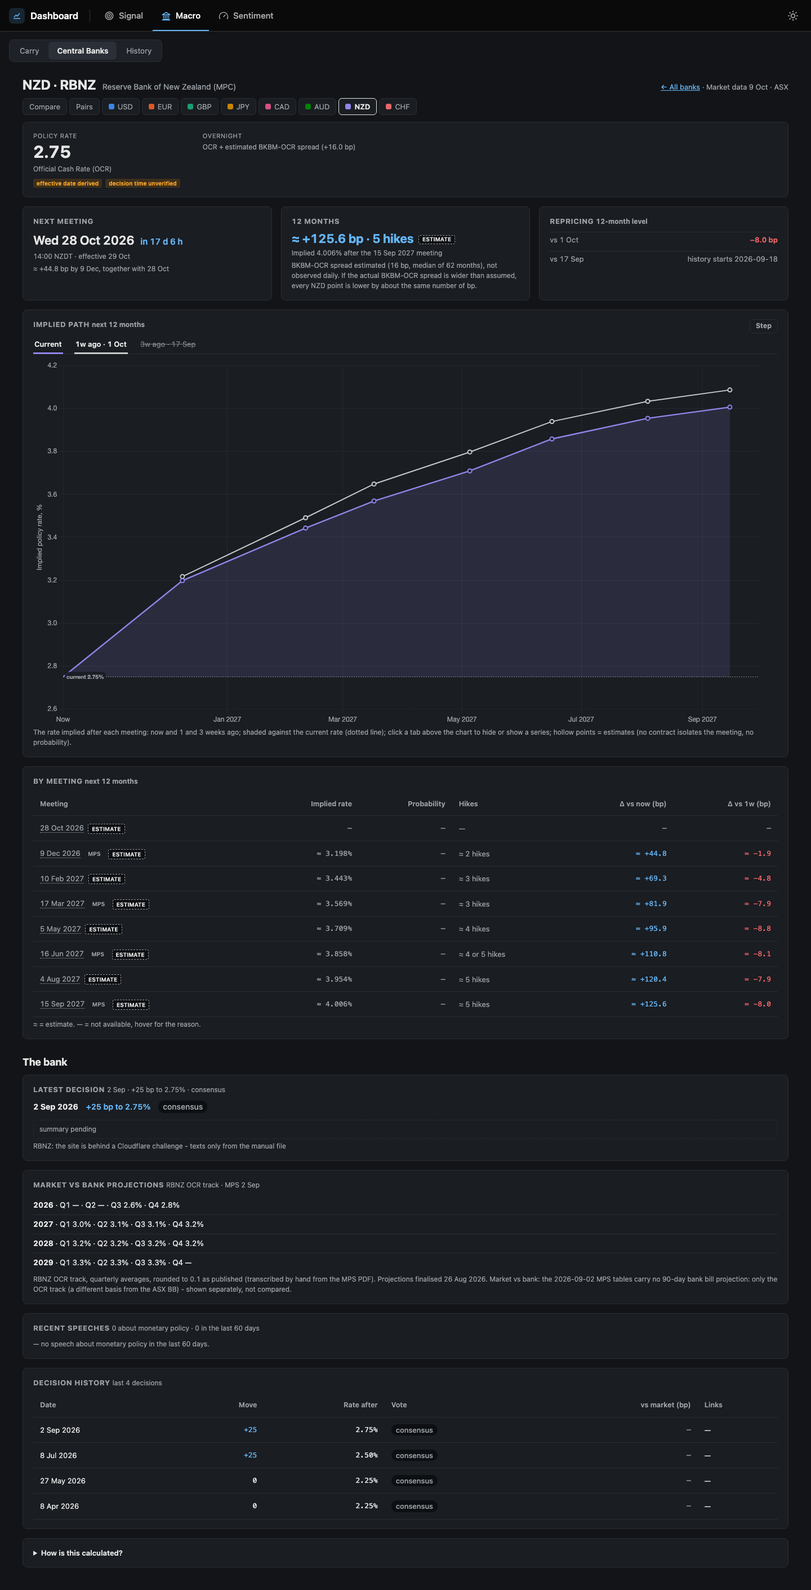
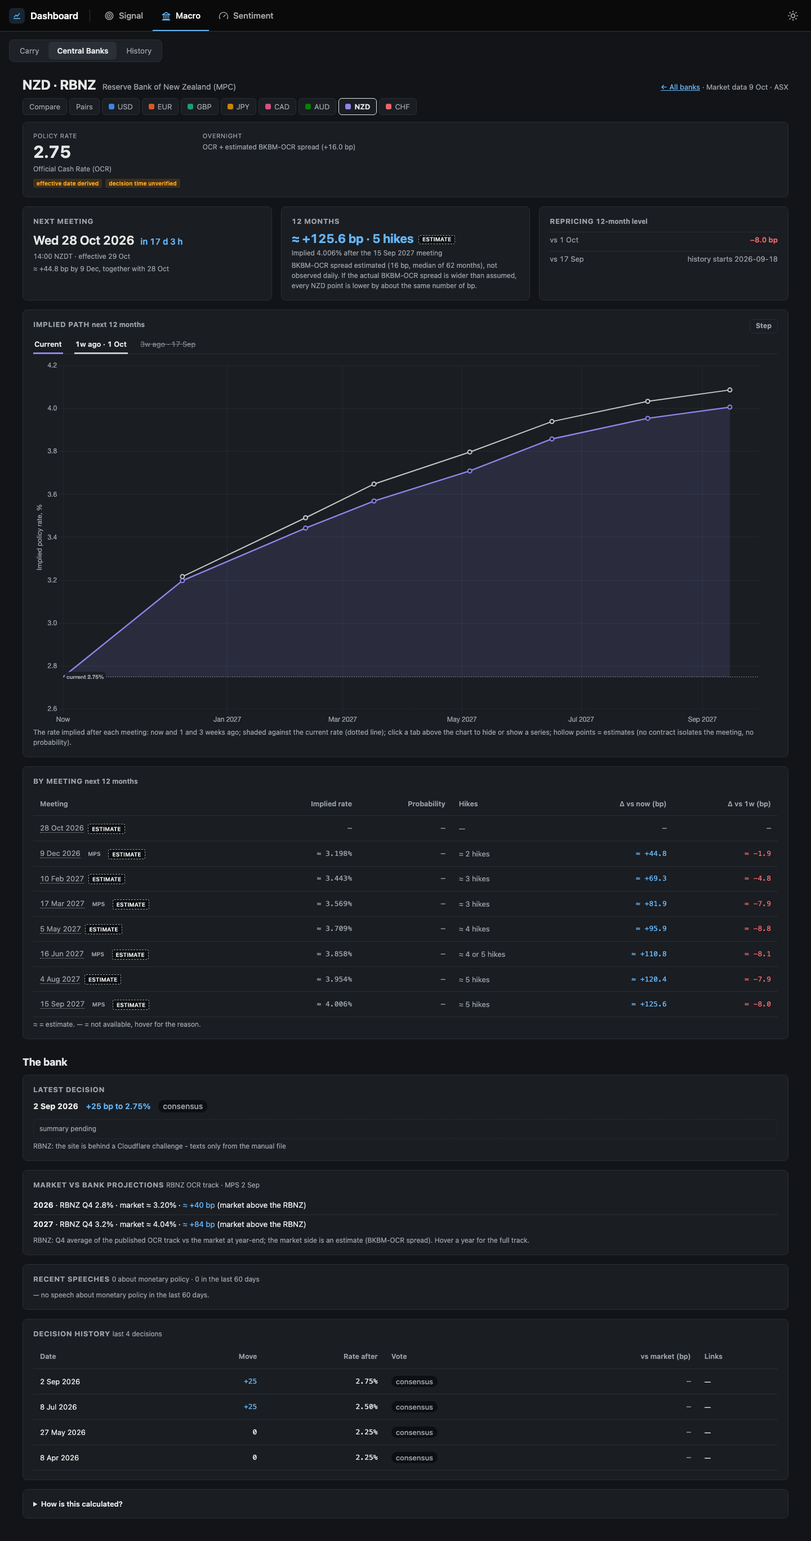
cb: bank page v3 fixes - Latest decision title, unpublished votes, RBNZ OCR track vs the market
- desktop: the Latest decision card has its title only (the phone accordion keeps the subtitle)
- votes not published (ECB): no chip in Latest decision, no Vote column when no row has a published vote; consensus (RBNZ) stays
- RBNZ projections like the Fed: per year with both values, Q4 of the published OCR track vs the policy-equivalent rate after the last
  meeting of the year (year_end, an estimate for NZD); payload chart.bank.vs_market (pure, tested); the full track in the tooltip
- tests updated; screenshots usd / eur / nzd retaken; ARCHITECTURE §22

diff --git a/public/cb.js b/public/cb.js
@@ -1064,20 +1064,21 @@
     else if (conf) Object.keys(conf).forEach(function (k) { if (conf[k] && conf[k].url) out.push(docAnchor(conf[k], PRESSER_LABEL[k] || "Press conference")); });
     return out;
   }
+  function votesPublished(v) { return !!v && v.kind !== "not_published"; }        // "consensus" (RBNZ) is shown; "not published" (ECB) is not
   function latestDecisionBlock(d) {
     const doc = d.documents, L = doc && doc.latest;
     if (!L) return null;
     const st = L.statement, dec = d.decisions.find(function (x) { return x.date === L.meeting; });
     const links = decisionLinks(st, L.follow_up, dec && dec.slots && dec.slots.conference);
     const row = '<div class="cb-ld-row"><b>' + fmtDate(L.meeting) + "</b>" + (dec ? '<span class="cb-ld-move' + tone(dec.delta_bp) + '">' + esc(moveText2(dec)) + "</span>" : "") +
-      voteChip(L.votes) + (links.length ? '<span class="cb-ld-links">' + links.join(DOT) + "</span>" : "") + "</div>";
+      (votesPublished(L.votes) ? voteChip(L.votes) : "") + (links.length ? '<span class="cb-ld-links">' + links.join(DOT) + "</span>" : "") + "</div>";
     const changes = st && L.redline ? '<details class="cb-x"><summary>Changes vs ' + fmtDate(L.redline.prev_meeting) + ' <span class="muted">(+' + L.redline.added_words + " / −" + L.redline.removed_words +
       " words)</span></summary>" + '<div class="cb-stmt-body">' + redlineParas(st, L.redline) + "</div></details>" : "";
     const full = st ? '<details class="cb-x"><summary>Full statement <span class="muted">(' + st.paragraphs.length + " paragraphs)</span></summary>" + '<div class="cb-stmt-body">' + st.paragraphs.map(paraHtml).join("") +
       '</div><div class="cb-sub">Source: <a href="' + esc(st.url) + '" target="_blank" rel="noopener">' + esc(st.url) + "</a>" + (st.rate_after !== null ? DOT + "rate in the text: " + fmtRateAuto(st.rate_after) + "%" : "") +
       (st.license ? "<br>" + esc(st.license) : "") + "</div></details>" : '<div class="cb-sub">' + esc(L.na || "statement not collected") + "</div>";
     const manual = doc.manual_only && !/manual/i.test((!st && L.na) || "") ? '<div class="cb-sub muted">RBNZ texts come from a manual file: the site is behind a Cloudflare challenge.</div>' : "";
-    return { title: "Latest decision", sub: fmtDay(L.meeting) + (dec ? DOT + esc(moveText2(dec)) : "") + (L.votes && L.votes.label ? DOT + esc(L.votes.label) : ""),
+    return { title: "Latest decision", sub: fmtDay(L.meeting) + (dec ? DOT + esc(moveText2(dec)) : "") + (votesPublished(L.votes) && L.votes.label ? DOT + esc(L.votes.label) : ""),
              html: row + summarySlot(L.summary, true) + changes + full + manual };
   }
 
@@ -1097,14 +1098,16 @@
                html: '<ul class="cb-pj">' + rows + '</ul><div class="cb-sub">Market minus the median dot at year end, same basis; hover a year for the distribution of the dots. 2028: no meeting calendar yet, the last meeting is assumed to be the 2nd Wednesday of December.</div>' };
     }
     if (bank.kind === "ocr_track") {
-      const byYear = {};
-      bank.quarters.forEach(function (x) { const y = x.period.slice(0, 4); (byYear[y] = byYear[y] || {})[x.period.slice(-1)] = x.value; });
-      const rows = Object.keys(byYear).sort().map(function (y) {
-        return '<li class="cb-pj-row"><b>' + esc(y) + "</b>" + DOT + [1, 2, 3, 4].map(function (k) { return "Q" + k + " " + (isNum(byYear[y][k]) ? fmtRate(byYear[y][k], 1) + "%" : NA); }).join(DOT) + "</li>";
+      const track = bank.quarters.map(function (x) { return x.period.slice(0, 4) + " Q" + x.period.slice(-1) + " " + (isNum(x.value) ? fmtRate(x.value, 1) + "%" : NA); }).join(", ");
+      const vm = bank.vs_market || { years: [], note: "" };
+      const rows = vm.years.map(function (r) {
+        const ap = r.est ? "≈ " : "";
+        return '<li class="cb-pj-row" title="' + esc("Published OCR track (quarterly averages): " + track) + '"><b>' + esc(String(r.year)) + "</b>" + DOT + "RBNZ Q4 " + fmtRate(r.bank, 1) + "%" + DOT +
+          "market " + ap + fmtRate(r.market, 2) + "%" + DOT + '<span class="' + tone(r.gap_bp).trim() + '">' + ap + fmtSigned(r.gap_bp, 0) + " bp</span> (" + gapLean(r.gap_bp, "RBNZ") + ")</li>";
       }).join("");
       return { title: "Market vs bank projections", sub: "RBNZ OCR track" + DOT + "MPS " + fmtDay(bank.source),
-               html: '<ul class="cb-pj">' + rows + '</ul><div class="cb-sub">' + esc((bank.note || "").replace(/([^.])\s*$/, "$1.")) + (bank.finalised ? " Projections finalised " + fmtDate(bank.finalised) + "." : "") +
-                     (g.na ? " Market vs bank: " + esc(shortNa(g.na)) + "." : "") + "</div>" };
+               html: (rows ? '<ul class="cb-pj">' + rows + "</ul>" : '<div class="cb-sub">' + NA + " no year with both the OCR track and a market level.</div>") +
+                     '<div class="cb-sub">' + esc(vm.note || "") + " Hover a year for the full track.</div>" };
     }
     return null;
   }
@@ -1143,20 +1146,22 @@
                links: decisionLinks((t && t.statement) || (x.slots && x.slots.statement), t && t.follow_up, x.slots && x.slots.conference), sums: sums };
     });
   }
+  function historyCols(rows) { return rows.length && rows.every(function (r) { return !votesPublished(r.vote); }) ? HISTORY_COLS.filter(function (c) { return c !== "Vote"; }) : HISTORY_COLS; }
   function decisionHistoryBlock(d) {
-    const rows = decisionHistoryRows(d).map(function (r) {
+    const all = decisionHistoryRows(d), cols = historyCols(all), withVote = cols.indexOf("Vote") >= 0;
+    const rows = all.map(function (r) {
       const vs = r.vs && isNum(r.vs.v) ? txtTd(r.vs.v, esc(fmtSigned(r.vs.v, 1)) + flagBadge(r.vs.flag), isNum(r.vs.implied_step_bp) ? "Decided step minus the step implied at T-1 (" + fmtSigned(r.vs.implied_step_bp, 1) + " bp)" : "Decided step minus the step implied at T-1")
         : naTd(r.vs && r.vs.na);
-      return '<tr><td class="cb-date">' + fmtDate(r.date) + "</td>" + txtTd(r.move, esc(fmtSigned(r.move, 0))) + '<td class="cb-n">' + esc(r.rate) + "</td><td>" + voteChip(r.vote) + "</td>" + vs +
+      return '<tr><td class="cb-date">' + fmtDate(r.date) + "</td>" + txtTd(r.move, esc(fmtSigned(r.move, 0))) + '<td class="cb-n">' + esc(r.rate) + "</td>" + (withVote ? "<td>" + (votesPublished(r.vote) ? voteChip(r.vote) : '<span class="muted" title="votes not published">' + NA + "</span>") + "</td>" : "") + vs +
         '<td class="cb-links-td">' + (r.links.join(DOT) || NA) + "</td></tr>" +
-        (r.sums.length ? '<tr class="cb-sumrow"><td colspan="' + HISTORY_COLS.length + '"><details class="cb-x"><summary>Summaries (' + r.sums.map(function (s) { return s.label; }).join(", ") + ")</summary>" +
+        (r.sums.length ? '<tr class="cb-sumrow"><td colspan="' + cols.length + '"><details class="cb-x"><summary>Summaries (' + r.sums.map(function (s) { return s.label; }).join(", ") + ")</summary>" +
           r.sums.map(function (s) { return '<div class="cb-sum-titled"><div class="cb-kicker">' + esc(s.label) + "</div>" + summaryBlock(SUMMARIES[s.slot.doc_id]) + "</div>"; }).join("") + "</details></td></tr>" : "");
     }).join("");
-    const head = HISTORY_COLS.map(function (h) {
+    const head = cols.map(function (h) {
       return h === "vs market (bp)" ? '<th class="cb-n" title="Decided step minus the step implied at T-1, bp (EXACT / CURVE / PROXY with a basis only)">' + h + "</th>" : "<th" + (h === "Move" || h === "Rate after" ? ' class="cb-n"' : "") + ">" + h + "</th>";
     }).join("");
     return { title: "Decision history", sub: "last " + Math.min(4, d.decisions.length) + " decisions",
-             html: '<div class="cb-scroll"><table class="cb-table cb-rp cb-dhist"><thead><tr>' + head + "</tr></thead><tbody>" + (rows || '<tr><td colspan="6" class="muted">no decision on record</td></tr>') + "</tbody></table></div>" };
+             html: '<div class="cb-scroll"><table class="cb-table cb-rp cb-dhist"><thead><tr>' + head + "</tr></thead><tbody>" + (rows || '<tr><td colspan="' + cols.length + '" class="muted">no decision on record</td></tr>') + "</tbody></table></div>" };
   }
   function bankCard(b, cls) { return b ? '<section class="cb-card cb-bblock' + (cls ? " " + cls : "") + '"><h3>' + esc(b.title) + (b.sub ? ' <small class="muted">' + b.sub + "</small>" : "") + "</h3>" + b.html + "</section>" : ""; }
 
@@ -1312,7 +1317,7 @@
     const latest = latestDecisionBlock(d);
     const dayLatest = dayMode && latest ? '<section class="cb-card cb-bblock cb-daycard"><div class="cb-daytag">Decision day</div><h3>' + esc(latest.title) + "</h3>" + latest.html + "</section>" : "";
     root.innerHTML = bankBar(d.ccy) + (dayMode ? nextCard(d, true) + dayLatest : "") + pathHeader(d) + pathCards(d) + pathChartCard(d) + pathTableHtml(d.path, d.calendar) +
-      '<h2 class="cb-zone">The bank</h2>' + (dayMode ? "" : bankCard(latest)) + bankCard(projectionsBlock(d)) + bankCard(speechesBlock(d)) + bankCard(decisionHistoryBlock(d)) +
+      '<h2 class="cb-zone">The bank</h2>' + (dayMode || !latest ? "" : bankCard({ title: latest.title, sub: "", html: latest.html })) + bankCard(projectionsBlock(d)) + bankCard(speechesBlock(d)) + bankCard(decisionHistoryBlock(d)) +
       referencePanel(d);
     wirePathChart(d.path);
     if (!themeWatched) { themeWatched = true; watchTheme(); }

diff --git a/static/cb.js b/static/cb.js
@@ -1064,20 +1064,21 @@
     else if (conf) Object.keys(conf).forEach(function (k) { if (conf[k] && conf[k].url) out.push(docAnchor(conf[k], PRESSER_LABEL[k] || "Press conference")); });
     return out;
   }
+  function votesPublished(v) { return !!v && v.kind !== "not_published"; }        // "consensus" (RBNZ) is shown; "not published" (ECB) is not
   function latestDecisionBlock(d) {
     const doc = d.documents, L = doc && doc.latest;
     if (!L) return null;
     const st = L.statement, dec = d.decisions.find(function (x) { return x.date === L.meeting; });
     const links = decisionLinks(st, L.follow_up, dec && dec.slots && dec.slots.conference);
     const row = '<div class="cb-ld-row"><b>' + fmtDate(L.meeting) + "</b>" + (dec ? '<span class="cb-ld-move' + tone(dec.delta_bp) + '">' + esc(moveText2(dec)) + "</span>" : "") +
-      voteChip(L.votes) + (links.length ? '<span class="cb-ld-links">' + links.join(DOT) + "</span>" : "") + "</div>";
+      (votesPublished(L.votes) ? voteChip(L.votes) : "") + (links.length ? '<span class="cb-ld-links">' + links.join(DOT) + "</span>" : "") + "</div>";
     const changes = st && L.redline ? '<details class="cb-x"><summary>Changes vs ' + fmtDate(L.redline.prev_meeting) + ' <span class="muted">(+' + L.redline.added_words + " / −" + L.redline.removed_words +
       " words)</span></summary>" + '<div class="cb-stmt-body">' + redlineParas(st, L.redline) + "</div></details>" : "";
     const full = st ? '<details class="cb-x"><summary>Full statement <span class="muted">(' + st.paragraphs.length + " paragraphs)</span></summary>" + '<div class="cb-stmt-body">' + st.paragraphs.map(paraHtml).join("") +
       '</div><div class="cb-sub">Source: <a href="' + esc(st.url) + '" target="_blank" rel="noopener">' + esc(st.url) + "</a>" + (st.rate_after !== null ? DOT + "rate in the text: " + fmtRateAuto(st.rate_after) + "%" : "") +
       (st.license ? "<br>" + esc(st.license) : "") + "</div></details>" : '<div class="cb-sub">' + esc(L.na || "statement not collected") + "</div>";
     const manual = doc.manual_only && !/manual/i.test((!st && L.na) || "") ? '<div class="cb-sub muted">RBNZ texts come from a manual file: the site is behind a Cloudflare challenge.</div>' : "";
-    return { title: "Latest decision", sub: fmtDay(L.meeting) + (dec ? DOT + esc(moveText2(dec)) : "") + (L.votes && L.votes.label ? DOT + esc(L.votes.label) : ""),
+    return { title: "Latest decision", sub: fmtDay(L.meeting) + (dec ? DOT + esc(moveText2(dec)) : "") + (votesPublished(L.votes) && L.votes.label ? DOT + esc(L.votes.label) : ""),
              html: row + summarySlot(L.summary, true) + changes + full + manual };
   }
 
@@ -1097,14 +1098,16 @@
                html: '<ul class="cb-pj">' + rows + '</ul><div class="cb-sub">Market minus the median dot at year end, same basis; hover a year for the distribution of the dots. 2028: no meeting calendar yet, the last meeting is assumed to be the 2nd Wednesday of December.</div>' };
     }
     if (bank.kind === "ocr_track") {
-      const byYear = {};
-      bank.quarters.forEach(function (x) { const y = x.period.slice(0, 4); (byYear[y] = byYear[y] || {})[x.period.slice(-1)] = x.value; });
-      const rows = Object.keys(byYear).sort().map(function (y) {
-        return '<li class="cb-pj-row"><b>' + esc(y) + "</b>" + DOT + [1, 2, 3, 4].map(function (k) { return "Q" + k + " " + (isNum(byYear[y][k]) ? fmtRate(byYear[y][k], 1) + "%" : NA); }).join(DOT) + "</li>";
+      const track = bank.quarters.map(function (x) { return x.period.slice(0, 4) + " Q" + x.period.slice(-1) + " " + (isNum(x.value) ? fmtRate(x.value, 1) + "%" : NA); }).join(", ");
+      const vm = bank.vs_market || { years: [], note: "" };
+      const rows = vm.years.map(function (r) {
+        const ap = r.est ? "≈ " : "";
+        return '<li class="cb-pj-row" title="' + esc("Published OCR track (quarterly averages): " + track) + '"><b>' + esc(String(r.year)) + "</b>" + DOT + "RBNZ Q4 " + fmtRate(r.bank, 1) + "%" + DOT +
+          "market " + ap + fmtRate(r.market, 2) + "%" + DOT + '<span class="' + tone(r.gap_bp).trim() + '">' + ap + fmtSigned(r.gap_bp, 0) + " bp</span> (" + gapLean(r.gap_bp, "RBNZ") + ")</li>";
       }).join("");
       return { title: "Market vs bank projections", sub: "RBNZ OCR track" + DOT + "MPS " + fmtDay(bank.source),
-               html: '<ul class="cb-pj">' + rows + '</ul><div class="cb-sub">' + esc((bank.note || "").replace(/([^.])\s*$/, "$1.")) + (bank.finalised ? " Projections finalised " + fmtDate(bank.finalised) + "." : "") +
-                     (g.na ? " Market vs bank: " + esc(shortNa(g.na)) + "." : "") + "</div>" };
+               html: (rows ? '<ul class="cb-pj">' + rows + "</ul>" : '<div class="cb-sub">' + NA + " no year with both the OCR track and a market level.</div>") +
+                     '<div class="cb-sub">' + esc(vm.note || "") + " Hover a year for the full track.</div>" };
     }
     return null;
   }
@@ -1143,20 +1146,22 @@
                links: decisionLinks((t && t.statement) || (x.slots && x.slots.statement), t && t.follow_up, x.slots && x.slots.conference), sums: sums };
     });
   }
+  function historyCols(rows) { return rows.length && rows.every(function (r) { return !votesPublished(r.vote); }) ? HISTORY_COLS.filter(function (c) { return c !== "Vote"; }) : HISTORY_COLS; }
   function decisionHistoryBlock(d) {
-    const rows = decisionHistoryRows(d).map(function (r) {
+    const all = decisionHistoryRows(d), cols = historyCols(all), withVote = cols.indexOf("Vote") >= 0;
+    const rows = all.map(function (r) {
       const vs = r.vs && isNum(r.vs.v) ? txtTd(r.vs.v, esc(fmtSigned(r.vs.v, 1)) + flagBadge(r.vs.flag), isNum(r.vs.implied_step_bp) ? "Decided step minus the step implied at T-1 (" + fmtSigned(r.vs.implied_step_bp, 1) + " bp)" : "Decided step minus the step implied at T-1")
         : naTd(r.vs && r.vs.na);
-      return '<tr><td class="cb-date">' + fmtDate(r.date) + "</td>" + txtTd(r.move, esc(fmtSigned(r.move, 0))) + '<td class="cb-n">' + esc(r.rate) + "</td><td>" + voteChip(r.vote) + "</td>" + vs +
+      return '<tr><td class="cb-date">' + fmtDate(r.date) + "</td>" + txtTd(r.move, esc(fmtSigned(r.move, 0))) + '<td class="cb-n">' + esc(r.rate) + "</td>" + (withVote ? "<td>" + (votesPublished(r.vote) ? voteChip(r.vote) : '<span class="muted" title="votes not published">' + NA + "</span>") + "</td>" : "") + vs +
         '<td class="cb-links-td">' + (r.links.join(DOT) || NA) + "</td></tr>" +
-        (r.sums.length ? '<tr class="cb-sumrow"><td colspan="' + HISTORY_COLS.length + '"><details class="cb-x"><summary>Summaries (' + r.sums.map(function (s) { return s.label; }).join(", ") + ")</summary>" +
+        (r.sums.length ? '<tr class="cb-sumrow"><td colspan="' + cols.length + '"><details class="cb-x"><summary>Summaries (' + r.sums.map(function (s) { return s.label; }).join(", ") + ")</summary>" +
           r.sums.map(function (s) { return '<div class="cb-sum-titled"><div class="cb-kicker">' + esc(s.label) + "</div>" + summaryBlock(SUMMARIES[s.slot.doc_id]) + "</div>"; }).join("") + "</details></td></tr>" : "");
     }).join("");
-    const head = HISTORY_COLS.map(function (h) {
+    const head = cols.map(function (h) {
       return h === "vs market (bp)" ? '<th class="cb-n" title="Decided step minus the step implied at T-1, bp (EXACT / CURVE / PROXY with a basis only)">' + h + "</th>" : "<th" + (h === "Move" || h === "Rate after" ? ' class="cb-n"' : "") + ">" + h + "</th>";
     }).join("");
     return { title: "Decision history", sub: "last " + Math.min(4, d.decisions.length) + " decisions",
-             html: '<div class="cb-scroll"><table class="cb-table cb-rp cb-dhist"><thead><tr>' + head + "</tr></thead><tbody>" + (rows || '<tr><td colspan="6" class="muted">no decision on record</td></tr>') + "</tbody></table></div>" };
+             html: '<div class="cb-scroll"><table class="cb-table cb-rp cb-dhist"><thead><tr>' + head + "</tr></thead><tbody>" + (rows || '<tr><td colspan="' + cols.length + '" class="muted">no decision on record</td></tr>') + "</tbody></table></div>" };
   }
   function bankCard(b, cls) { return b ? '<section class="cb-card cb-bblock' + (cls ? " " + cls : "") + '"><h3>' + esc(b.title) + (b.sub ? ' <small class="muted">' + b.sub + "</small>" : "") + "</h3>" + b.html + "</section>" : ""; }
 
@@ -1312,7 +1317,7 @@
     const latest = latestDecisionBlock(d);
     const dayLatest = dayMode && latest ? '<section class="cb-card cb-bblock cb-daycard"><div class="cb-daytag">Decision day</div><h3>' + esc(latest.title) + "</h3>" + latest.html + "</section>" : "";
     root.innerHTML = bankBar(d.ccy) + (dayMode ? nextCard(d, true) + dayLatest : "") + pathHeader(d) + pathCards(d) + pathChartCard(d) + pathTableHtml(d.path, d.calendar) +
-      '<h2 class="cb-zone">The bank</h2>' + (dayMode ? "" : bankCard(latest)) + bankCard(projectionsBlock(d)) + bankCard(speechesBlock(d)) + bankCard(decisionHistoryBlock(d)) +
+      '<h2 class="cb-zone">The bank</h2>' + (dayMode || !latest ? "" : bankCard({ title: latest.title, sub: "", html: latest.html })) + bankCard(projectionsBlock(d)) + bankCard(speechesBlock(d)) + bankCard(decisionHistoryBlock(d)) +
       referencePanel(d);
     wirePathChart(d.path);
     if (!themeWatched) { themeWatched = true; watchTheme(); }

diff --git a/tests/test_cb_paths_payload.py b/tests/test_cb_paths_payload.py
@@ -177,3 +177,31 @@ def test_bank_page_v3_js_on_the_real_cb_js():
     root = Path(__file__).resolve().parents[1]
     r = subprocess.run(["node", str(root / "tests" / "cb_js" / "test_bank_page_v3.cjs")], cwd=root, capture_output=True, text=True, timeout=60)
     assert r.returncode == 0, r.stdout + r.stderr
+
+
+def test_rbnz_ocr_track_vs_market_at_year_end(ctx, built):
+    """Bank page v3: RBNZ Q4 of the published OCR track vs the policy-equivalent rate in force after the last meeting of the year
+    (the Fed rule, `year_end`); only years with both values; the market side is an ESTIMATE (BKBM-OCR spread)."""
+    vm = built["banks"]["NZD"]["chart"]["bank"]["vs_market"]
+    assert vm["note"] == P.OCR_VS_MARKET_NOTE
+    rows = {r["year"]: r for r in vm["years"]}
+    assert set(rows) == {2026, 2027}                                                   # Q4 of the track and a year-end level exist for both
+    for y, r in rows.items():
+        ye = built["banks"]["NZD"]["summary"]["end"][str(y)]
+        q4 = next(q["value"] for q in built["banks"]["NZD"]["chart"]["bank"]["quarters"] if q["period"] == f"{y}Q4")
+        assert r["bank"] == q4 and r["market"] == ye["rate"] and r["meeting"] == ye["meeting"]
+        assert r["gap_bp"] == pytest.approx((ye["rate"] - q4) * 100, abs=0.05)
+        assert r["flag"] == "ESTIMATE" and r["est"] is True
+    assert rows[2026] == {"year": 2026, "bank": 2.8, "market": 3.187, "gap_bp": 38.7, "flag": "ESTIMATE", "est": True, "meeting": "2026-12-09"}
+    assert rows[2027]["bank"] == 3.2 and rows[2027]["gap_bp"] == 83.7
+    assert "vs_market" not in built["banks"]["USD"]["chart"]["bank"] and "vs_market" not in built["banks"]["EUR"]["chart"]["bank"]
+    again = P.build(ctx, ASOF, load_pair_defs())
+    assert again["banks"]["NZD"]["chart"]["bank"] == built["banks"]["NZD"]["chart"]["bank"]                      # deterministic
+
+
+def test_ocr_vs_market_keeps_only_years_with_both_values(ctx, built):
+    import copy
+    rep = copy.deepcopy(A.bank_report(ctx, "NZD", ASOF))
+    rep.bank_path.points = [p for p in rep.bank_path.points if p[0] != "2027Q4"]                 # no 2027 Q4 on the track
+    rep.year_ends[2026].rate = None                                                              # no market level at end-2026
+    assert P.ocr_vs_market_json(rep)["years"] == []

diff --git a/src/cb_compute/payload.py b/src/cb_compute/payload.py
@@ -535,7 +535,25 @@ def bank_path_json(rep: BankReport) -> dict:
         out["years"] = [{"year": int(lbl), "median": num(v), "dots": [{"level": num(l), "count": n} for l, n in bp.dots.get(int(lbl), [])]} for lbl, v in bp.points]
     else:
         out["quarters"] = [{"period": lbl, "value": num(v, 2)} for lbl, v in bp.points]
+        out["vs_market"] = ocr_vs_market_json(rep)
     return out
+
+
+OCR_VS_MARKET_NOTE = "RBNZ: Q4 average of the published OCR track vs the market at year-end; the market side is an estimate (BKBM-OCR spread)."
+
+
+def ocr_vs_market_json(rep: BankReport) -> dict:
+    """RBNZ OCR track vs the market, the Fed rule: per year, the Q4 average of the published track against the policy-equivalent
+    rate in force after the last meeting of the year (`year_end`). Only years with both values. Pure and deterministic."""
+    q4 = {int(lbl[:4]): v for lbl, v in rep.bank_path.points if str(lbl).endswith("Q4") and v is not None}
+    years = []
+    for y in YEAR_ENDS:
+        ye = rep.year_ends.get(y)
+        if y not in q4 or ye is None or ye.rate is None:
+            continue
+        years.append({"year": y, "bank": num(q4[y], 2), "market": num(ye.rate), "gap_bp": num((ye.rate - q4[y]) * 100, 1), "flag": ye.flag,
+                      "est": ye.flag == "ESTIMATE", "meeting": iso(ye.meeting)})
+    return {"note": OCR_VS_MARKET_NOTE, "years": years}
 
 
 def chart_json(ctx: Context, rep: BankReport, asof: date) -> dict:

diff --git a/docs/central-banks/ARCHITECTURE.md b/docs/central-banks/ARCHITECTURE.md
@@ -1069,17 +1069,22 @@ Doar UI (`static/cb.js`, `static/style.css`); payload-ul nu se schimbă. Ordinea
   proiecțiile.
 
 **Zona 2 — „The bank”** (blocuri compacte, fiecare `{title, sub, html}`: card pe desktop, acordeon pe telefon):
-1. **Latest decision** (`latestDecisionBlock`): un rând — data, mișcarea („+25 bp to 3.75–4.00%” / „Hold at 2.50%”), chip-ul votului (tooltip-ul cu
+1. **Latest decision** (`latestDecisionBlock`; pe desktop doar titlul, pe telefon antetul acordeonului păstrează subtitlul): un rând — data, mișcarea („+25 bp to 3.75–4.00%” / „Hold at 2.50%”), chip-ul votului (tooltip-ul cu
    numele și disidențele), linkurile (statement, minutes / account / summary of opinions / deliberations, video, transcript); sub el punctele rezumatului
    factual (compact: fără citate și fără blocul lui de schimbări); expanderele închise „Changes vs <data>” (redline-ul) și „Full statement”. RBNZ: nota
    scurtă despre fișierul manual (o dată).
 2. **Market vs bank projections** (`projectionsBlock`): doar Fed (dots) și RBNZ (OCR track), altfel blocul lipsește. Fed: un rând pe an „2027 · dots
-   4.125% · market 4.679% [CURVE] · +55 bp (market above the Fed)”, distribuția dot-urilor în tooltip. RBNZ: un rând pe an Q1…Q4 + nota.
+   4.125% · market 4.679% [CURVE] · +55 bp (market above the Fed)”, distribuția dot-urilor în tooltip. RBNZ, aceeași regulă: un rând pe an doar când există
+   ambele valori, „2027 · RBNZ Q4 3.2% · market ≈ 4.04% · ≈ +84 bp (market above the RBNZ)” — Q4 din traiectoria OCR publicată vs rata politică-echivalentă
+   în vigoare după ultima ședință a anului (`year_end`, estimare la NZD); traiectoria completă în tooltip. Calculul e în payload, pur:
+   `chart.bank.vs_market` = {note, years: [{year, bank, market, gap_bp, flag, est, meeting}]} (`payload.ocr_vs_market_json`, anii din `YEAR_ENDS`).
 3. **Recent speeches** (`speechSplit`, `speechesBlock`): ultimele 5 cu `relevance = monetary`; dată · vorbitor (chip chair / voter) · titlu (link) ·
    rezumat în expander; restul (monetary mai vechi + „other”) într-un „Show all (N)” închis.
 4. **Decision history** (`decisionHistoryRows`, `decisionHistoryBlock`): ultimele 4 decizii — Date · Move · Rate after · Vote · vs market (bp) (= „vs
    market T-1”, cu tooltip-ul lui) · Links; rezumatele existente ale deciziei (statement, minutes, transcript) într-un singur expander sub rândul ei.
    Scoase: Effective, Consensus, vs consensus, React. next, React. year-end (rămân în JSON).
+   Voturi nepublicate (`kind = not_published`, ECB): fără chip în Latest decision; coloana Vote lipsește când niciun rând nu are vot publicat.
+   „consensus” (RBNZ) rămâne afișat.
 
 **Zona 3 — referință** (închisă, `referencePanel`): „How is this calculated?” = metodologia existentă + tabelul de surse și licențe + calendarul complet
 (cu blackout).
